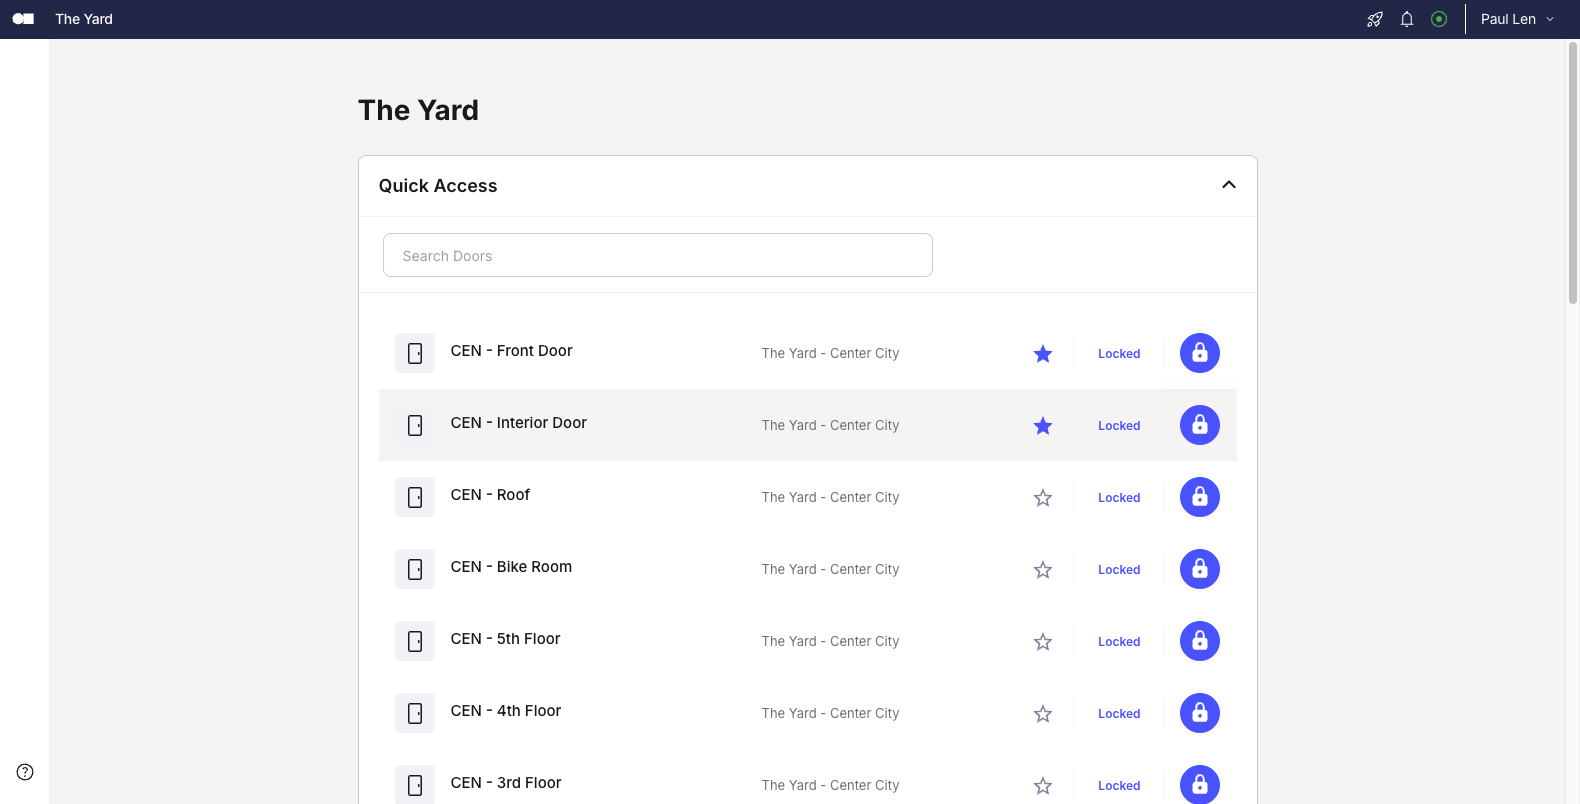
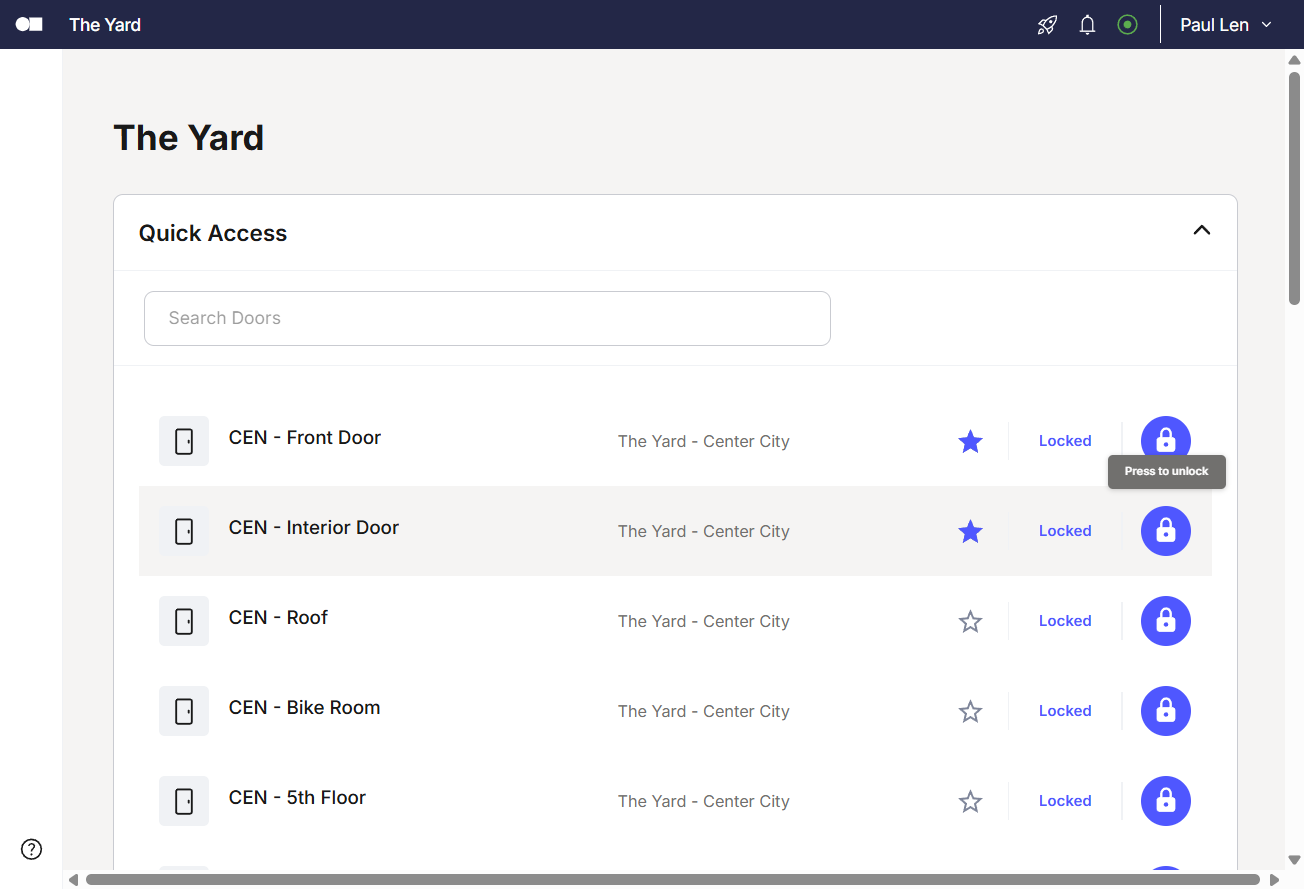
live testing tom

diff --git a/UnlockDoor.js b/UnlockDoor.js
@@ -6,6 +6,9 @@ const { pressButtons, checkUnlockSuccess } = require('./BuzzButton');
 const os = require('os');
 const path = require('path');
 
+// Keep a global reference to the browser connection
+let globalBrowser = null;
+
 async function getChromeExecutablePath() {
   const platform = os.platform();
   if (platform === 'darwin') { // macOS
@@ -28,87 +31,100 @@ async function getChromeExecutablePath() {
   throw new Error('Unsupported platform');
 }
 
-async function killExistingChromeDebugger() {
-  const platform = os.platform();
+async function ensureChromeIsRunning() {
   try {
-    if (platform === 'darwin') {
-      await execPromise('pkill -f "Google Chrome.*remote-debugging-port=9222"');
-    } else if (platform === 'win32') {
-      await execPromise('taskkill /F /IM chrome.exe /FI "WINDOWTITLE eq remote-debugging-port=9222"');
-    }
+    // Try to connect to existing Chrome instance first
+    globalBrowser = await puppeteer.connect({
+      browserURL: 'http://127.0.0.1:9222',
+      defaultViewport: null
+    });
+    console.log('Connected to existing Chrome instance');
+    return true;
   } catch (e) {
-    // It's okay if this fails - it just means no Chrome was running
+    console.log('No existing Chrome instance found, starting new one...');
+    try {
+      // Get the appropriate Chrome path for the current OS
+      const chromePath = await getChromeExecutablePath();
+      
+      // Start Chrome with remote debugging enabled
+      const chromeCommand = `"${chromePath}" --remote-debugging-port=9222 --no-first-run --no-default-browser-check --user-data-dir="${path.join(os.tmpdir(), 'chrome-debug-profile')}"`;
+      await execPromise(chromeCommand);
+      
+      // Wait for Chrome to be ready
+      console.log('Waiting for Chrome debugging port to be ready...');
+      const http = require('http');
+      const maxAttempts = 30;
+      let attempts = 0;
+      
+      await new Promise((resolve, reject) => {
+        const checkChromeReady = () => {
+          attempts++;
+          const req = http.get('http://127.0.0.1:9222/json/version', (res) => {
+            if (res.statusCode === 200) {
+              console.log(`Chrome is ready after ${attempts} attempts`);
+              resolve();
+            } else if (attempts < maxAttempts) {
+              setTimeout(checkChromeReady, 500);
+            } else {
+              resolve();
+            }
+          });
+          
+          req.on('error', (err) => {
+            if (attempts < maxAttempts) {
+              setTimeout(checkChromeReady, 500);
+            } else {
+              resolve();
+            }
+          });
+          req.end();
+        };
+        checkChromeReady();
+      });
+      
+      // Connect to the new Chrome instance
+      globalBrowser = await puppeteer.connect({
+        browserURL: 'http://127.0.0.1:9222',
+        defaultViewport: null
+      });
+      console.log('Connected to new Chrome instance');
+      return true;
+    } catch (error) {
+      console.error('Failed to start Chrome:', error);
+      return false;
+    }
   }
 }
 
 async function unlockDoor() {
   console.log('Starting the door unlock process...');
-  let browser = null;
   
   try {
-    // Kill any existing Chrome processes that might be using port 9222
-    await killExistingChromeDebugger();
-    
-    // Get the appropriate Chrome path for the current OS
-    const chromePath = await getChromeExecutablePath();
-    console.log('Opening Chrome with remote debugging...');
-    
-    // Start Chrome with remote debugging enabled - using escaped paths
-    const chromeCommand = `"${chromePath}" --remote-debugging-port=9222 --no-first-run --no-default-browser-check --user-data-dir="${path.join(os.tmpdir(), 'chrome-debug-profile')}" https://web.kisi.io/organization/4103/dashboard`;
-    await execPromise(chromeCommand);
-    
-    // Wait for Chrome to be ready by polling the debugging port
-    console.log('Waiting for Chrome debugging port to be ready...');
-    
-    const http = require('http');
-    const maxAttempts = 30; // Maximum number of attempts (30 attempts * 500ms = 15 seconds max)
-    let attempts = 0;
-    
-    await new Promise((resolve, reject) => {
-      const checkChromeReady = () => {
-        attempts++;
-        const req = http.get('http://127.0.0.1:9222/json/version', (res) => {
-          if (res.statusCode === 200) {
-            console.log(`Chrome is ready after ${attempts} attempts`);
-            resolve();
-          } else {
-            if (attempts < maxAttempts) {
-              setTimeout(checkChromeReady, 500); // Check every 500ms
-            } else {
-              console.log('Max attempts reached, continuing anyway...');
-              resolve();
-            }
-          }
-        });
-        
-        req.on('error', (err) => {
-          if (attempts < maxAttempts) {
-            setTimeout(checkChromeReady, 500); // Check every 500ms
-          } else {
-            console.log('Max attempts reached, continuing anyway...');
-            resolve();
-          }
-        });
-        
-        req.end();
-      };
-      
-      // Start checking
-      checkChromeReady();
-    });
-    
-    // Connect to Chrome - explicitly using 127.0.0.1 instead of localhost
-    console.log('Connecting to Chrome...');
-    browser = await puppeteer.connect({
-      browserURL: 'http://127.0.0.1:9222',
-      defaultViewport: null
-    });
-    
-    console.log('Successfully connected to Chrome');
+    // Ensure Chrome is running and we're connected
+    if (!await ensureChromeIsRunning()) {
+      throw new Error('Failed to connect to Chrome');
+    }
     
     // Get all pages
-    const pages = await browser.pages();
-    const page = pages[pages.length - 1]; // Get the last page which should be the Kisi dashboard
+    const pages = await globalBrowser.pages();
+    let page;
+    
+    // Check if there's already a Kisi page open
+    for (const existingPage of pages) {
+      const url = await existingPage.url();
+      if (url.includes('kisi.io')) {
+        console.log('Found existing Kisi page, reusing it...');
+        page = existingPage;
+        break;
+      }
+    }
+    
+    // If no existing Kisi page found, create a new one
+    if (!page) {
+      console.log('No existing Kisi page found, creating new one...');
+      page = await globalBrowser.newPage();
+      await page.goto('https://web.kisi.io/organization/4103/dashboard');
+    }
     
     // Wait for the page to be fully loaded
     console.log('Waiting for page to load completely...');
@@ -149,17 +165,22 @@ async function unlockDoor() {
     
   } catch (error) {
     console.error('An error occurred:', error);
-  } finally {
-    // Disconnect from the browser if connected
-    if (browser) {
-      try {
-        await browser.disconnect();
-        console.log('Disconnected from browser');
-      } catch (closeError) {
-        console.error('Error disconnecting from browser:', closeError);
-      }
+    // Don't disconnect on error, just log it
+  }
+  // Don't disconnect from browser anymore - keep the connection alive
+}
+
+// Add a cleanup function that can be called when the application is shutting down
+async function cleanup() {
+  if (globalBrowser) {
+    try {
+      await globalBrowser.disconnect();
+      console.log('Disconnected from browser');
+    } catch (error) {
+      console.error('Error disconnecting from browser:', error);
     }
+    globalBrowser = null;
   }
 }
 
-module.exports = { unlockDoor };
+module.exports = { unlockDoor, cleanup };
